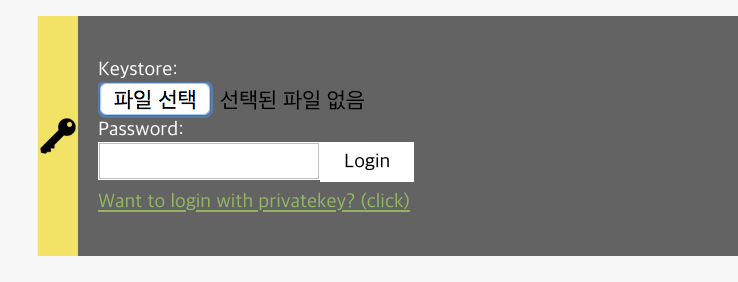
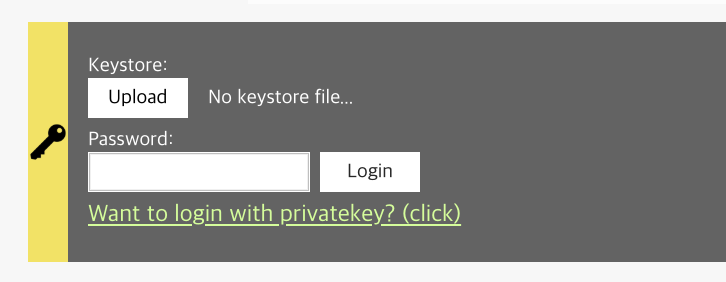
튜토리얼 한국어 이미지 영문 이미지로 변경 (#2)
* change image (korean text -> english)

* fix typo

Changed region(s): [[0.0303, 0.0567, 1.0, 0.9362]]

diff --git a/docs/bapp/tutorials/klaystagram/5.-deploy-contract.md b/docs/bapp/tutorials/klaystagram/5.-deploy-contract.md
@@ -39,7 +39,7 @@ const PRIVATE_KEY = '0x3de0c90ce7e440f19eff6439390c29389f611725422b79c95f9f48c85
 
 module.exports = {
   networks: {
-    baobab: {
+    klaytn: {
       provider: () => new HDWalletProvider(PRIVATE_KEY, URL),
       network_id: NETWORK_ID,
       gas: '8500000',
@@ -122,7 +122,7 @@ cf. For further information about `artifacts.require()`, refer to truffle offici
 
 ![deploy contract](images/klaystagram-deploy-contract.png)
 
-In your terminal type `$ truffle deploy --network baobab`.  
+In your terminal type `$ truffle deploy --network klaytn`.  
 It will deploy your contract according to `truffle-config.js` and `migrations/2_deploy_contracts.js` configuration.
 
 Terminal will display deployed contract address if deployment was successful.
